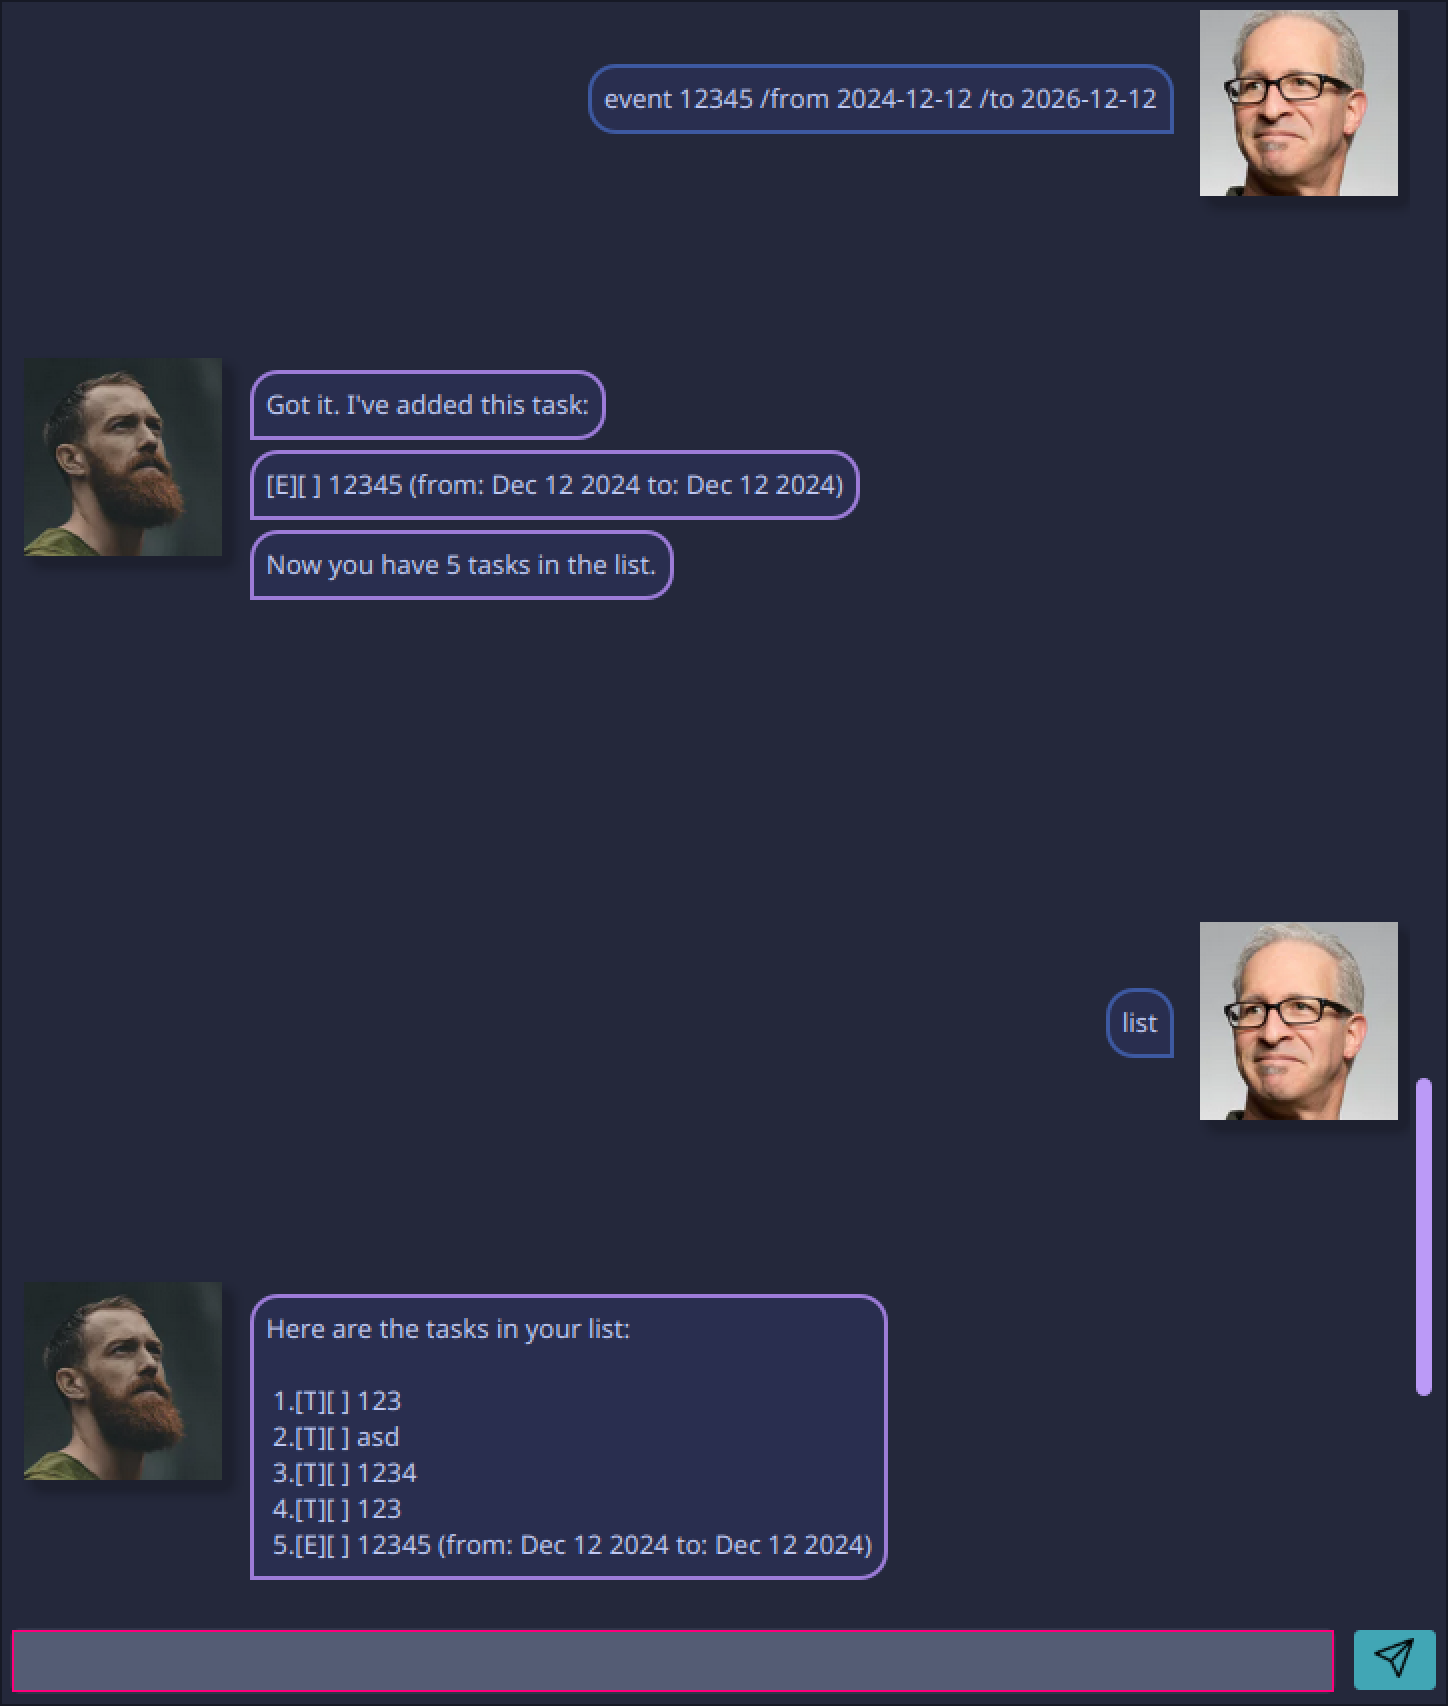
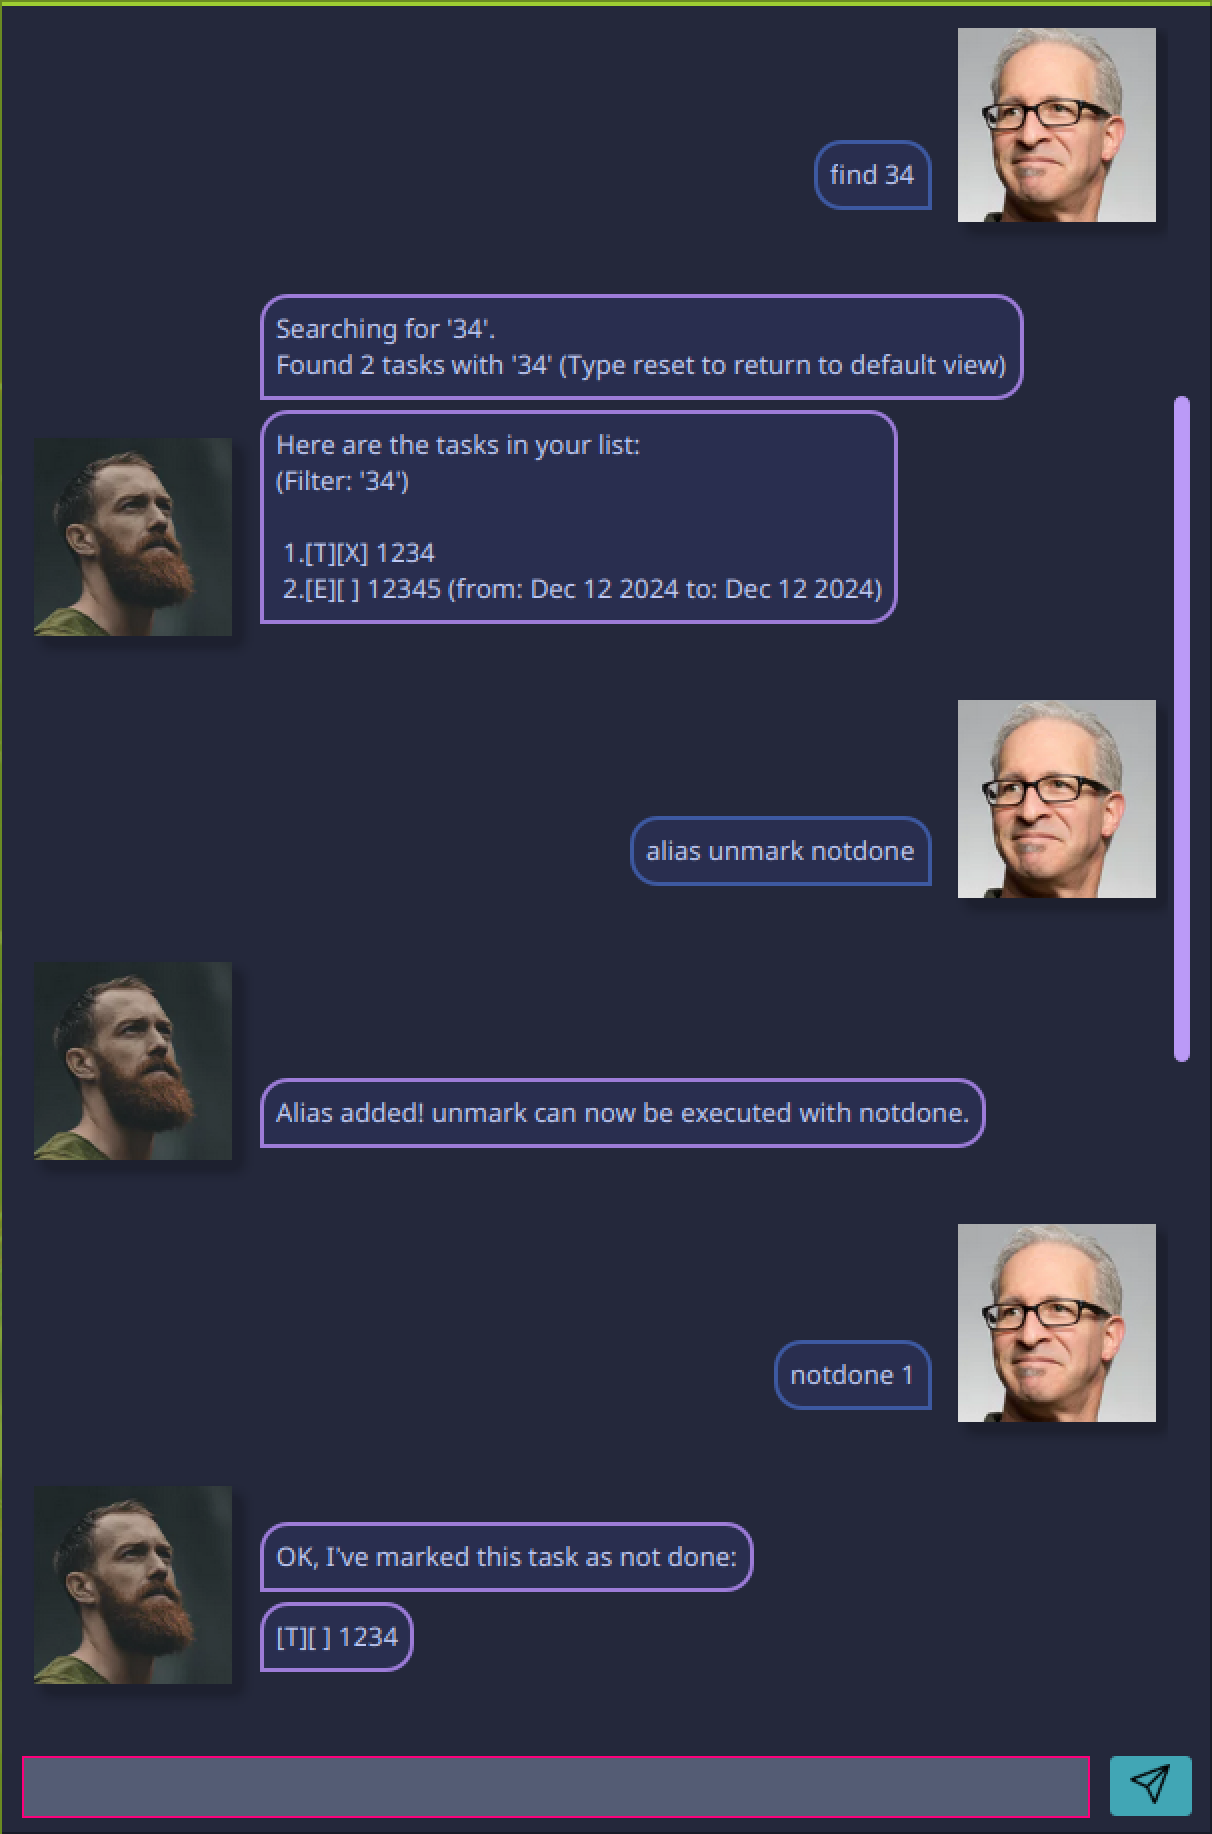
Add new UI images

diff --git a/README.md b/README.md
@@ -3,7 +3,32 @@
 
 YappingBot **FREES** your mind of having to remember things you need to do.
 
-![](docs/Ui.png)
+![GUI](docs/Ui.png)
+
+![CLI](docs/Ui2.png)
+
+---
+<details> 
+<summary> **Quick Links** </summary>
+- [Features implemented](#features-implemented)
+- [Usage](#usage)
+    - [Runing the bot](#running-the-bot)
+    - [Commands](#commands-in-the-bot)
+        - [Alias](#alias)
+        - [List](#list)
+        - [Reset](#reset)
+        - [Exit](#exit)
+        - [Filter](#filter)
+        - [Delete](#delete)
+        - [Mark](#mark)
+        - [Unmark](#unmark)
+        - [Adding Deadline Task](#deadline)
+        - [Adding Event Task](#event)
+        - [Adding To-do Task](#todo)
+- [Tinkering](#tinkering)
+</details>
+
+---
 
 - Text-based
 - Questionable learning curve
@@ -37,13 +62,219 @@ Did I mention it's **FREE**? (Free of Charge, Free of Dom)
 - [x] CLI mode fallback (pass `-c`)
 - [x] Change savefile path (pass `-s <filepath>`)
 - [X] Add custom aliases
-- [ ] Add CSS to make things pretty
+- [X] Add CSS to make things pretty
 - [ ] Add more personality
 - [ ] Persistant settings (ie for aliases)
 - [ ] Autosave
 - [ ] Flexible date formatting
 - [ ] More coming soon...
+
 ---
+# Usage
+
+The following commands are availabe:
+
+## Running the bot
+If you are running the bot as such:
+
+`java -jar yappingbot.jar`
+
+You can add the following:
+- `-c`: Use command line interface instead of GUI
+- `-s SAVEPATH` denote a custom savefile path
+
+---
+
+## Commands in the bot:
+Commands are typed as such:
+
+`VERB first-argument /FLAG value /FLAG value`
+
+Where `verb` refers to the command and `flag` refers to any possible flags. The order of the
+flags are not fixed, as long as the first argument proceeds the verb, and all non-optional
+arguments are provided. Each command has several aliases, and more can be added with the
+[`alias`](#alias) command.
+
+**Example**:
+
+`event I will be off /from 2023-12-25 /to 2024-1-1`
+
+Results in a _Event_ task, titled "I will be off", with the start date as _"25th December 2023"_
+and end date as _"1st January 2024"_.
+
+---
+
+### Alias
+Adds a new alias for a command.
+#### Verbs:
+- `alias`
+#### First argument:
+- **Required**
+- **No spaces allowed**
+- *The existing command*
+#### Second argument:
+- **Required**
+- **No spaces allowed**
+- *The new alias that will run command*
+
+---
+
+### List
+Lists all the tasks in the current filter
+#### Verbs:
+- `list`
+- `print`
+- `l`
+#### Example:
+`list`
+#### Note:
+If you have a filter, list will show the tasks matching the filter. Use [`reset`](#Reset) to remove
+the filter and view the entire list. A filtered list will have the filter listed before the tasks.
+
+---
+
+### Reset
+Resets the current view to show all tasks without filter.
+#### Verbs:
+- `reset`
+- `r`
+#### Example:
+`reset`
+
+---
+### Exit
+Exits the program and ends the bot.
+#### Verbs:
+- `bye`
+- `exit`
+- `:q`
+#### Example:
+`bye`
+#### Note:
+- On the GUI, the input will be disabled. The window can be closed after this.
+- The bot saves the tasks to a savefile that is usually where the application was executed. This
+  can be used when launching the bot next time. See [Launching](#running-the-bot).
+
+---
+
+### Filter
+Filters the task to show all tasks matching the given search. Searched fields include the dates
+and task titles.
+#### Verbs:
+- `filter`
+- `search`
+- `/` (space is required before search argument)
+- `find`
+#### First argument:
+- **Required**
+- *The text to be searched*
+#### Example:
+`find 2024`
+#### Note:
+- Any commands run after this will be based on this new view
+- Use [`reset`](#Reset) to remove the filter and view the entire list.
+- To search for multiple matching criteria, repeat the command with new search terms:
+```
+find Chores
+f 2024
+```
+This will result in a filtered list `'Chores' AND '2024'`
+
+---
+### Delete
+Deletes a task in the current view
+#### Verbs:
+- `delete`
+- `d`
+#### First argument:
+- **Required**
+- *The index number of the task to be deleted*
+#### Example:
+`delete 1`
+#### Note:
+If you have a filter, the index will be based on that filter. Use [`list`](#List) to see the
+currently filtered tasks, and [`reset`](#Reset) to remove the filter and view the entire list.
+
+---
+
+### Mark
+Marks a task in the current view as done
+#### Verbs:
+- `mark`
+- `m`
+#### First argument:
+- **Required**
+- *The index number of the task to be marked*
+#### Example:
+`m 1`
+#### Note:
+If you have a filter, the index will be based on that filter. Use [`list`](#List) to see the
+currently filtered tasks, and [`reset`](#Reset) to remove the filter and view the entire list
+
+---
+
+### Unmark
+Unmarks a task in the current view as done
+#### Verbs:
+- `unmark`
+- `um`
+#### First argument:
+- **Required**
+- *The index number of the task to be unmakred*
+#### Example:
+`m 1`
+#### Note:
+If you have a filter, the index will be based on that filter. Use [`list`](#List) to see the
+currently filtered tasks, and [`reset`](#Reset) to remove the filter and view the entire list
+
+---
+
+### Deadline
+Adds a 'Deadline' task
+#### Verbs:
+- `deadline`
+- `dl`
+#### First argument:
+- **Required**
+- *The task name*
+#### `/by` flag:
+- **Required**
+- *Date (in `YYYY-MM-DD`) of task's deadline*
+#### Example:
+`dl I need to do this! /by 2024-09-20`
+
+---
+### Event
+Adds a 'Event' task
+#### Verbs:
+- `event`
+- `e`
+#### First argument:
+- **Required**
+- *The task name*
+#### `/from` flag:
+- **Required**
+- *Date (in `YYYY-MM-DD`) of event's start date*
+#### `/to` flag:
+- **Required**
+- *Date (in `YYYY-MM-DD`) of event's end date*
+#### Example:
+`event I will be off /from 2023-12-25 /to 2024-1-1`
+
+---
+### Todo
+Adds a 'TO-DO' task
+#### Verbs:
+- `todo`
+- `t`
+#### First argument:
+- **Required**
+- *The task name*
+#### Example:
+`todo This is a todo task!`
+
+---
+# Tinkering
 If you're bored and want to stress yourself, look no further!
 
 Clone this, and feel free to run it like this:

diff --git a/docs/README.md b/docs/README.md
@@ -3,8 +3,9 @@
 
 YappingBot **FREES** your mind of having to remember things you need to do.
 
+![GUI](Ui.png)
 
-![](Ui.png)
+![CLI](Ui2.png)
 
 ---
 <details> 
